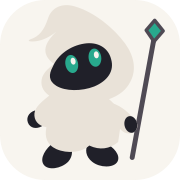
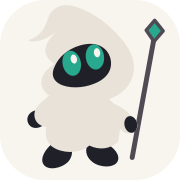
feat: make Una eye-first

Changed region(s): [[0.2778, 0.2222, 0.6389, 0.5]]

diff --git a/test/app-ui.test.ts b/test/app-ui.test.ts
@@ -59,6 +59,12 @@ describe("meme index product UI", () => {
     expect(mascot).not.toMatch(/#ff6f83|#e85570/i);
   });
 
+  it("keeps Una eye-first at icon scale", () => {
+    expect(mascot).toContain('rx="13" ry="18"');
+    expect(mascot).toContain('rx="4.5" ry="6.5"');
+    expect(mascot).not.toContain('rx="9" ry="13"');
+  });
+
   it("keeps the launch surface Robinhood-specific while preserving self-custody", () => {
     expect(portfolio).toContain("Robinhood Una Index");
     expect(portfolio).toContain("Una agents regularly review which markets qualify.");
